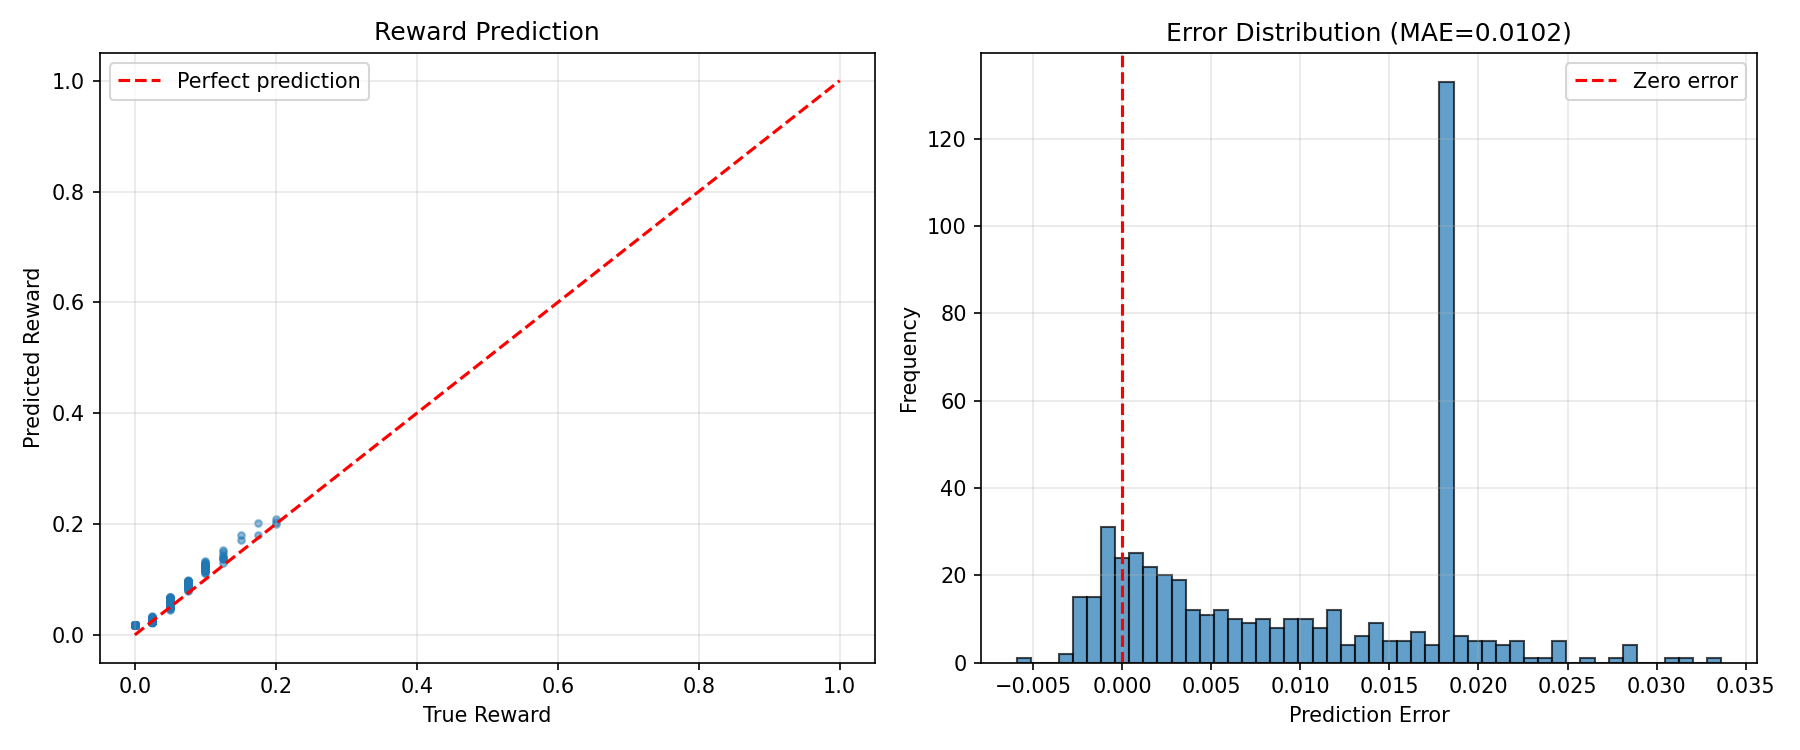
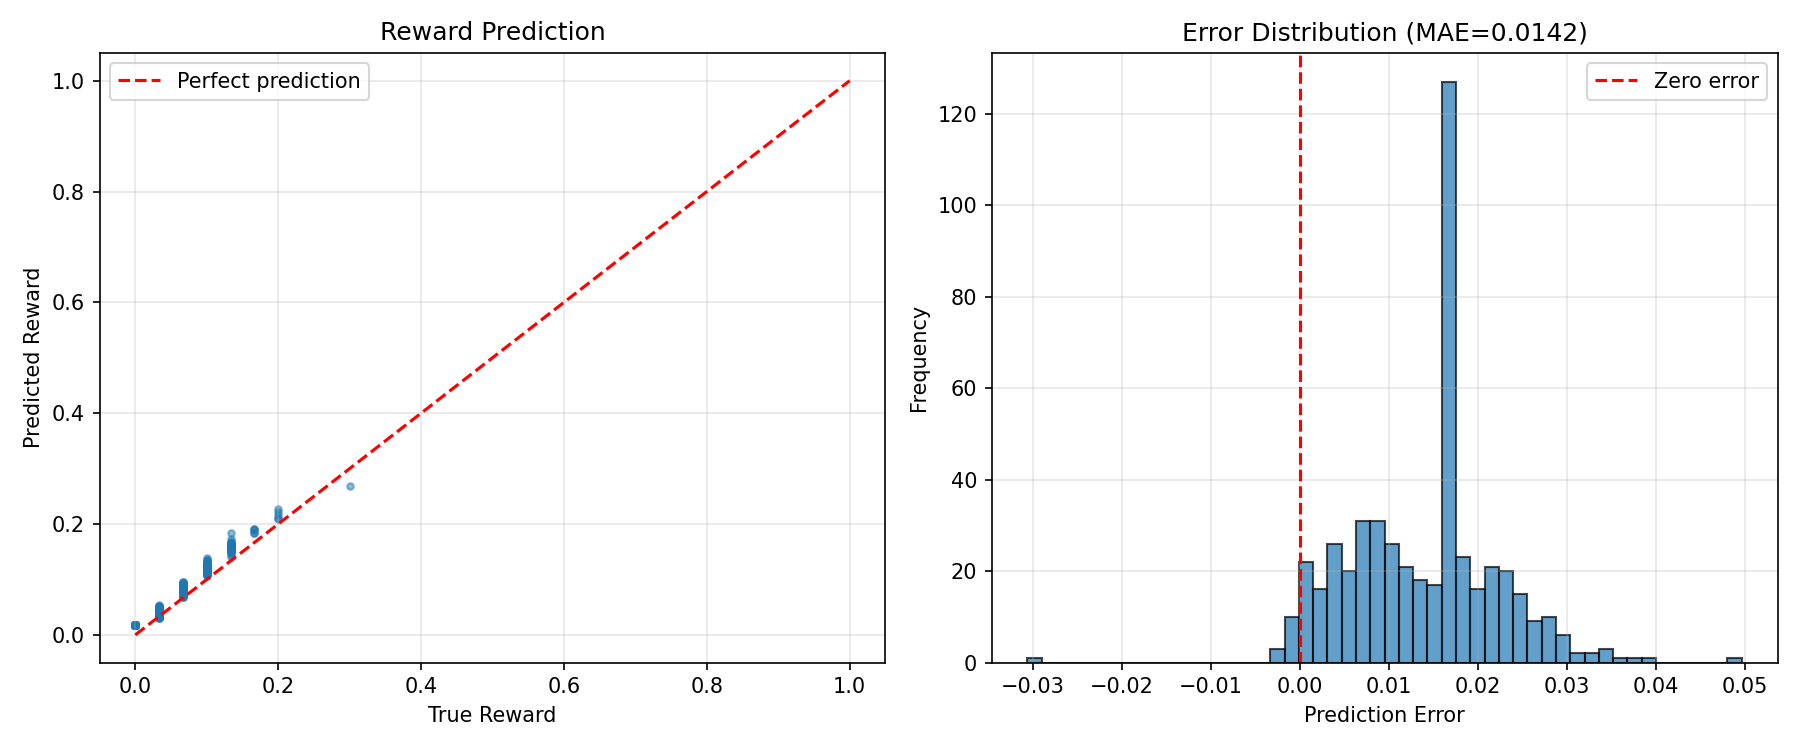
change comments

diff --git a/sample_reward_data.py b/sample_reward_data.py
@@ -43,7 +43,7 @@ print(f"Vocabulary size: {vocab_size} characters")
 def compute_reward(text, max_chars=200):
     """
     Compute reward based on 'K' count (case-insensitive)
-    Target: 20+ K's per 200 chars (= 10+ per 100 tokens)
+    Target: 30+ K's per 200 chars (= 15+ per 100 tokens)
     
     Args:
         text: text string
